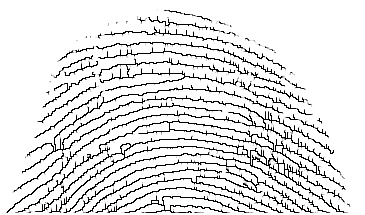
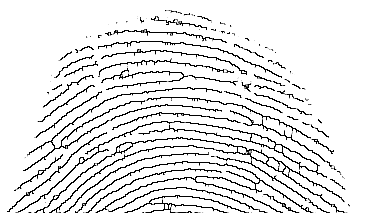
Finishing the from 1-4

diff --git a/Kang_et_al/szakdoga3.py b/Kang_et_al/szakdoga3.py
@@ -7,9 +7,10 @@ from Common.functions import endpoint
 from Common.functions import connectedcorner
 from Common.functions import connectedpath
 from Common.functions import borderpoint
-from Common.functions import findroad
 from Common.functions import connectedcomponents
-from Common.functions import printmatrix
+from Common.functions import neighbour
+from Common.functions import equalmatrix
+from Common.functions import makeequalmatrix
 
 print(bcolors.OK, " _  __                    _____       _       _  ___           ")
 print(" | |/ /                   / ____|     | |     | |/ (_)          ")
@@ -21,7 +22,7 @@ print("                   __/ |                                        ")
 print("                  |___/                                         ", bcolors.ENDC, '\n')
 
 # Beolvasás szürkeárnyalatos képként
-picture = 'test'
+picture = 'fingerprintmini'
 
 img = imreadgray('../Common/' + picture + '.png')
 img2 = imreadgray('../Common/' + picture + '.png')
@@ -32,6 +33,7 @@ skeleton = imreadgray('../Common/' + picture + '.png')
 matrix = imreadgray('../Common/' + picture + '.png')
 matrix2 = imreadgray('../Common/' + picture + '.png')
 help = imreadgray('../Common/' + picture + '.png')
+borders = imreadgray('../Common/' + picture + '.png')
 
 # Értékek átkonvertálása 0-255
 flip(psis)
@@ -57,6 +59,7 @@ for row in range(0, size[0]):
         matrix[row][col] = 0
         matrix2[row][col] = 0
         help[row][col] = 0
+        borders[row][col] = 0
 
 print(bcolors.WARN, 'Original grayscale image', bcolors.ENDC)
 print(img, '\n')
@@ -91,25 +94,42 @@ for row in range(1, size[0] - 1):
 
 print(bcolors.WARN, 'PSI >= 6', bcolors.ENDC)
 print(img2, '\n')
+
+for row in range(1, size[0] - 1):
+    for col in range(1, size[1] - 1):
+        img[row][col] = img2[row][col]
 deleted = 0
+change = True
 
 for x in range(3):
-    for row in range(2, size[0] - 2):
-        for col in range(2, size[1] - 2):
-            if psi[row][col] == 6 + x:
-                if borderpoint(img2[row][col + 1], img2[row - 1][col], img2[row][col - 1], img2[row + 1][col]):
-                    if localmaximum(img2[row][col], img2[row][col + 1], img2[row - 1][col + 1],
-                                     img2[row - 1][col], img2[row - 1][col - 1], img2[row][col - 1],
-                                     img2[row + 1][col - 1], img2[row + 1][col], img2[row + 1][col + 1]):
-                        continue
-                    if endpoint(img2, row, col):
-                        continue
-                    if not connectedcorner(img2, row, col):
-                        continue
-                    if not connectedpath(img2, row, col):
-                        continue
-                    deleted += 1
-                    img2[row][col] = 0
+
+    while change:
+
+        for row in range(1, size[0] - 1):
+            for col in range(1, size[1] - 1):
+                if borderpoint(img[row][col + 1], img[row - 1][col], img[row][col - 1], img[row + 1][col]):
+                    borders[row][col] = 1
+
+        for row in range(2, size[0] - 2):
+            for col in range(2, size[1] - 2):
+                if psi[row][col] == 6 + x:
+                    if borders[row][col] == 1:
+                        if localmaximum(img2[row][col], img2[row][col + 1], img2[row - 1][col + 1],
+                                         img2[row - 1][col], img2[row - 1][col - 1], img2[row][col - 1],
+                                         img2[row + 1][col - 1], img2[row + 1][col], img2[row + 1][col + 1]):
+                            continue
+                        if endpoint(img2, row, col):
+                            continue
+                        if not connectedcorner(img2, row, col):
+                            continue
+                        if not connectedpath(img2, row, col):
+                            continue
+                        deleted += 1
+                        img2[row][col] = 0
+        if equalmatrix(img, img2, size):
+            break
+        else:
+            makeequalmatrix(img, img2, size)
 
 for row in range(1, size[0] - 1):
     for col in range(1, size[1] - 1):
@@ -120,42 +140,26 @@ matrix2 = connectedcomponents(matrix2, img2, size)
 print('Skeleton:')
 print(img2)
 
-count = True
-
 for row in range(1, size[0] - 1):
     count = True
     for col in range(1, size[1] - 1):
         if img2[row][col] != 0:
-            if matrix[row - 1][col] == 1:
-                findroad(matrix, matrix2, help, img, img2, row - 1, col, matrix2[row][col])
-                matrix2 = connectedcomponents(matrix2, img2, size)
-            if matrix[row - 1][col - 1] == 1:
-                findroad(matrix, matrix2, help, img, img2, row - 1, col - 1, matrix2[row][col])
-                matrix2 = connectedcomponents(matrix2, img2, size)
-            if matrix[row][col - 1] == 1:
-                findroad(matrix, matrix2, help, img, img2, row, col - 1, matrix2[row][col])
-                matrix2 = connectedcomponents(matrix2, img2, size)
-            if matrix[row + 1][col - 1] == 1:
-                findroad(matrix, matrix2, help, img, img2, row + 1, col - 1, matrix2[row][col])
-                matrix2 = connectedcomponents(matrix2, img2, size)
-            if matrix[row + 1][col] == 1:
-                findroad(matrix, matrix2, help, img, img2, row + 1, col, matrix2[row][col])
-                matrix2 = connectedcomponents(matrix2, img2, size)
-            if matrix[row + 1][col + 1] == 1:
-                findroad(matrix, matrix2, help, img, img2, row + 1, col + 1, matrix2[row][col])
-                matrix2 = connectedcomponents(matrix2, img2, size)
-            if matrix[row][col + 1] == 1:
-                findroad(matrix, matrix2, help, img, img2, row, col + 1, matrix2[row][col])
-                matrix2 = connectedcomponents(matrix2, img2, size)
-            if matrix[row - 1][col + 1] == 1:
-                findroad(matrix, matrix2, help, img, img2, row - 1, col + 1, matrix2[row][col])
-                matrix2 = connectedcomponents(matrix2, img2, size)
-            if count:
-                print(size[0] - 2, ' / ', row)
-                count = False
-        elif count:
-            print(size[0] - 2, ' / ', row)
-            count = False
+            if matrix[row - 1][col] == 1 and neighbour(matrix2, row, col, matrix2[row][col]):
+                img2[row - 1][col] = img[row - 1][col]
+            if matrix[row - 1][col - 1] == 1 and neighbour(matrix2, row, col, matrix2[row][col]):
+                img2[row - 1][col - 1] = img[row - 1][col - 1]
+            if matrix[row][col - 1] == 1 and neighbour(matrix2, row, col, matrix2[row][col]):
+                img2[row][col - 1] = img[row][col - 1]
+            if matrix[row + 1][col - 1] == 1 and neighbour(matrix2, row, col, matrix2[row][col]):
+                img2[row + 1][col - 1] = img[row + 1][col - 1]
+            if matrix[row + 1][col] == 1 and neighbour(matrix2, row, col, matrix2[row][col]):
+                img2[row + 1][col] = img[row + 1][col]
+            if matrix[row + 1][col + 1] == 1 and neighbour(matrix2, row, col, matrix2[row][col]):
+                img2[row + 1][col + 1] = img[row + 1][col + 1]
+            if matrix[row][col + 1] == 1 and neighbour(matrix2, row, col, matrix2[row][col]):
+                img2[row][col + 1] = img[row][col + 1]
+            if matrix[row - 1][col + 1] == 1 and neighbour(matrix2, row, col, matrix2[row][col]):
+                img2[row - 1][col + 1] = img[row - 1][col + 1]
 
 print(bcolors.WARN, 'Skeleton after connectivity restoration:', bcolors.ENDC)
 print(bcolors.ERR, 'Deleted:', deleted, bcolors.ENDC)

diff --git a/Kim/szakdoga4.py b/Kim/szakdoga4.py
@@ -1,4 +1,5 @@
 import cv2
+import numpy as np
 import bcolors
 from Common.functions import imreadgray
 from Common.functions import flip
@@ -16,7 +17,7 @@ print(" | . \| | | | | | | | |___|  __/  __/ | |____| | | | (_) | |")
 print(" |_|\_\_|_| |_| |_| |______\___|\___|  \_____|_| |_|\___/|_|", bcolors.ENDC)
 
 # Reading in the image as a gray image
-picture = 'chromosome'
+picture = 'fingerprintmini'
 
 img = imreadgray('../Common/' + picture + '.png')
 img2 = imreadgray('../Common/' + picture + '.png')
@@ -61,6 +62,8 @@ for row in range(0, size[0]):
 
 equal = True
 lepes = 1
+kernel = np.ones((3, 3), np.uint8)
+kernel2 = np.ones((5, 5), np.uint8)
 
 print('Comp:')
 print(comp)
@@ -143,8 +146,58 @@ while equal:
     else:
         makeequalmatrix(img2, comp, size)
 
+# Ridge detection once more
+for row in range(0, size[0]):
+    for col in range(0, size[1]):
+        R[row][col] = 0
+        O1[row][col] = 0
+        O2[row][col] = 0
+        helper1[row][col] = 0
+        helper2[row][col] = 0
+        helper3[row][col] = 0
+        helper4[row][col] = 0
+
+# Ridge detection
+for row in range(1, size[0] - 1):
+    for col in range(1, size[1] - 1):
+        O1[row][col] = erosion(comp, row, col)
+        O2[row][col] = erosion(comp, row, col)
+
+makeequalmatrix(helper1, O1, size)
+makeequalmatrix(helper2, O2, size)
+
+for row in range(1, size[0] - 1):
+    for col in range(1, size[1] - 1):
+        O1[row][col] = dilation(helper1, row, col)
+        O2[row][col] = erosion(helper2, row, col)
+
+makeequalmatrix(helper3, O2, size)
+
+for row in range(1, size[0] - 1):
+    for col in range(1, size[1] - 1):
+        O2[row][col] = dilation(helper3, row, col)
+
+makeequalmatrix(helper4, O2, size)
+
+for row in range(1, size[0] - 1):
+    for col in range(1, size[1] - 1):
+        O2[row][col] = dilation(helper4, row, col)
+
+# print('O1:', O1)
+# print('O2:', O2)
+
+for row in range(1, size[0] - 1):
+    for col in range(1, size[1] - 1):
+        if (int(comp[row][col]) - int(O1[row][col]) > 0) and int(comp[row][col]) - int(O2[row][col]) > h:
+            R[row][col] = comp[row][col]
+        else:
+            R[row][col] = 0
+# print('R:', R)
+
+print(comp, '\n', bcolors.ENDC)
+
 # Converting the values back to normal
-flip(comp)
+flip(R)
 
 # Saving
-cv2.imwrite('results/' + picture + '.png', comp)
+cv2.imwrite('results/' + picture + '.png', R)

diff --git a/SalariSiy1984/szakdoga2.py b/SalariSiy1984/szakdoga2.py
@@ -20,12 +20,13 @@ print("                                              __/ |")
 print("                                             |___/ ", bcolors.ENDC)
 
 # Reading in the pictures as a gray picture
-picture = 'chinese'
+picture = 'b'
 
 img = imreadgray('../Common/' + picture + '.png')
 img2 = imreadgray('../Common/' + picture + '.png')
 g1 = imreadgray('../Common/' + picture + '.png')
 g2 = imreadgray('../Common/' + picture + '.png')
+borders = imreadgray('../Common/' + picture + '.png')
 
 # Converting the values 0-255
 flip(img)
@@ -44,6 +45,7 @@ for row in range(size[0]):
             img[row][col] = 0
         g1[row][col] = 0
         g2[row][col] = 0
+        borders[row][col] = 0
 
 for row in range(size[0]):
     for col in range(size[1]):
@@ -100,11 +102,17 @@ while notequal:
     conc = 0
     conp = 0
     torolt = 0
+
+    for row in range(1, size[0] - 1):
+        for col in range(1, size[1] - 1):
+            if borderpoint(img[row][col + 1], img[row - 1][col], img[row][col - 1], img[row + 1][col]):
+                hatar += 1
+                borders[row][col] = 1
+
     for row in range(1, size[0] - 1):
         for col in range(1, size[1] - 1):
             if img[row][col] != 0:
-                if borderpoint(img[row][col + 1], img[row - 1][col], img[row][col - 1], img[row + 1][col]):
-                    hatar += 1
+                if borders[row][col] == 1:
                     if localmaximum(img[row][col], img[row][col + 1], img[row - 1][col + 1],
                                      img[row - 1][col], img[row - 1][col - 1], img[row][col - 1],
                                      img[row + 1][col - 1], img[row + 1][col], img[row + 1][col + 1]):

diff --git a/Common/test.py b/Common/test.py
@@ -1,0 +1,18 @@
+import cv2
+import numpy as np
+from Common.functions import imreadgray
+from Common.functions import flip
+
+picture = 'sima'
+img = imreadgray('../Common/' + picture + '.png')
+flip(img)
+
+print(img)
+
+kernel = np.ones((3, 3), np.uint8)
+erosion = cv2.erode(img, kernel, iterations=1)
+dilation = cv2.dilate(img, kernel, iterations=1)
+
+print(erosion)
+print(dilation)
+

diff --git a/Common/functions.py b/Common/functions.py
@@ -478,7 +478,7 @@ def countf(img, row, col):
         f8 = 1
     else:
         f8 = 0
-    X = [f1, f8, f7, f6, f5, f4, f3, f2, f1]
+    X = [f1, f2, f3, f4, f5, f6, f7, f8, f1]
     last_sign = 0
     sign_changes = 0
 
